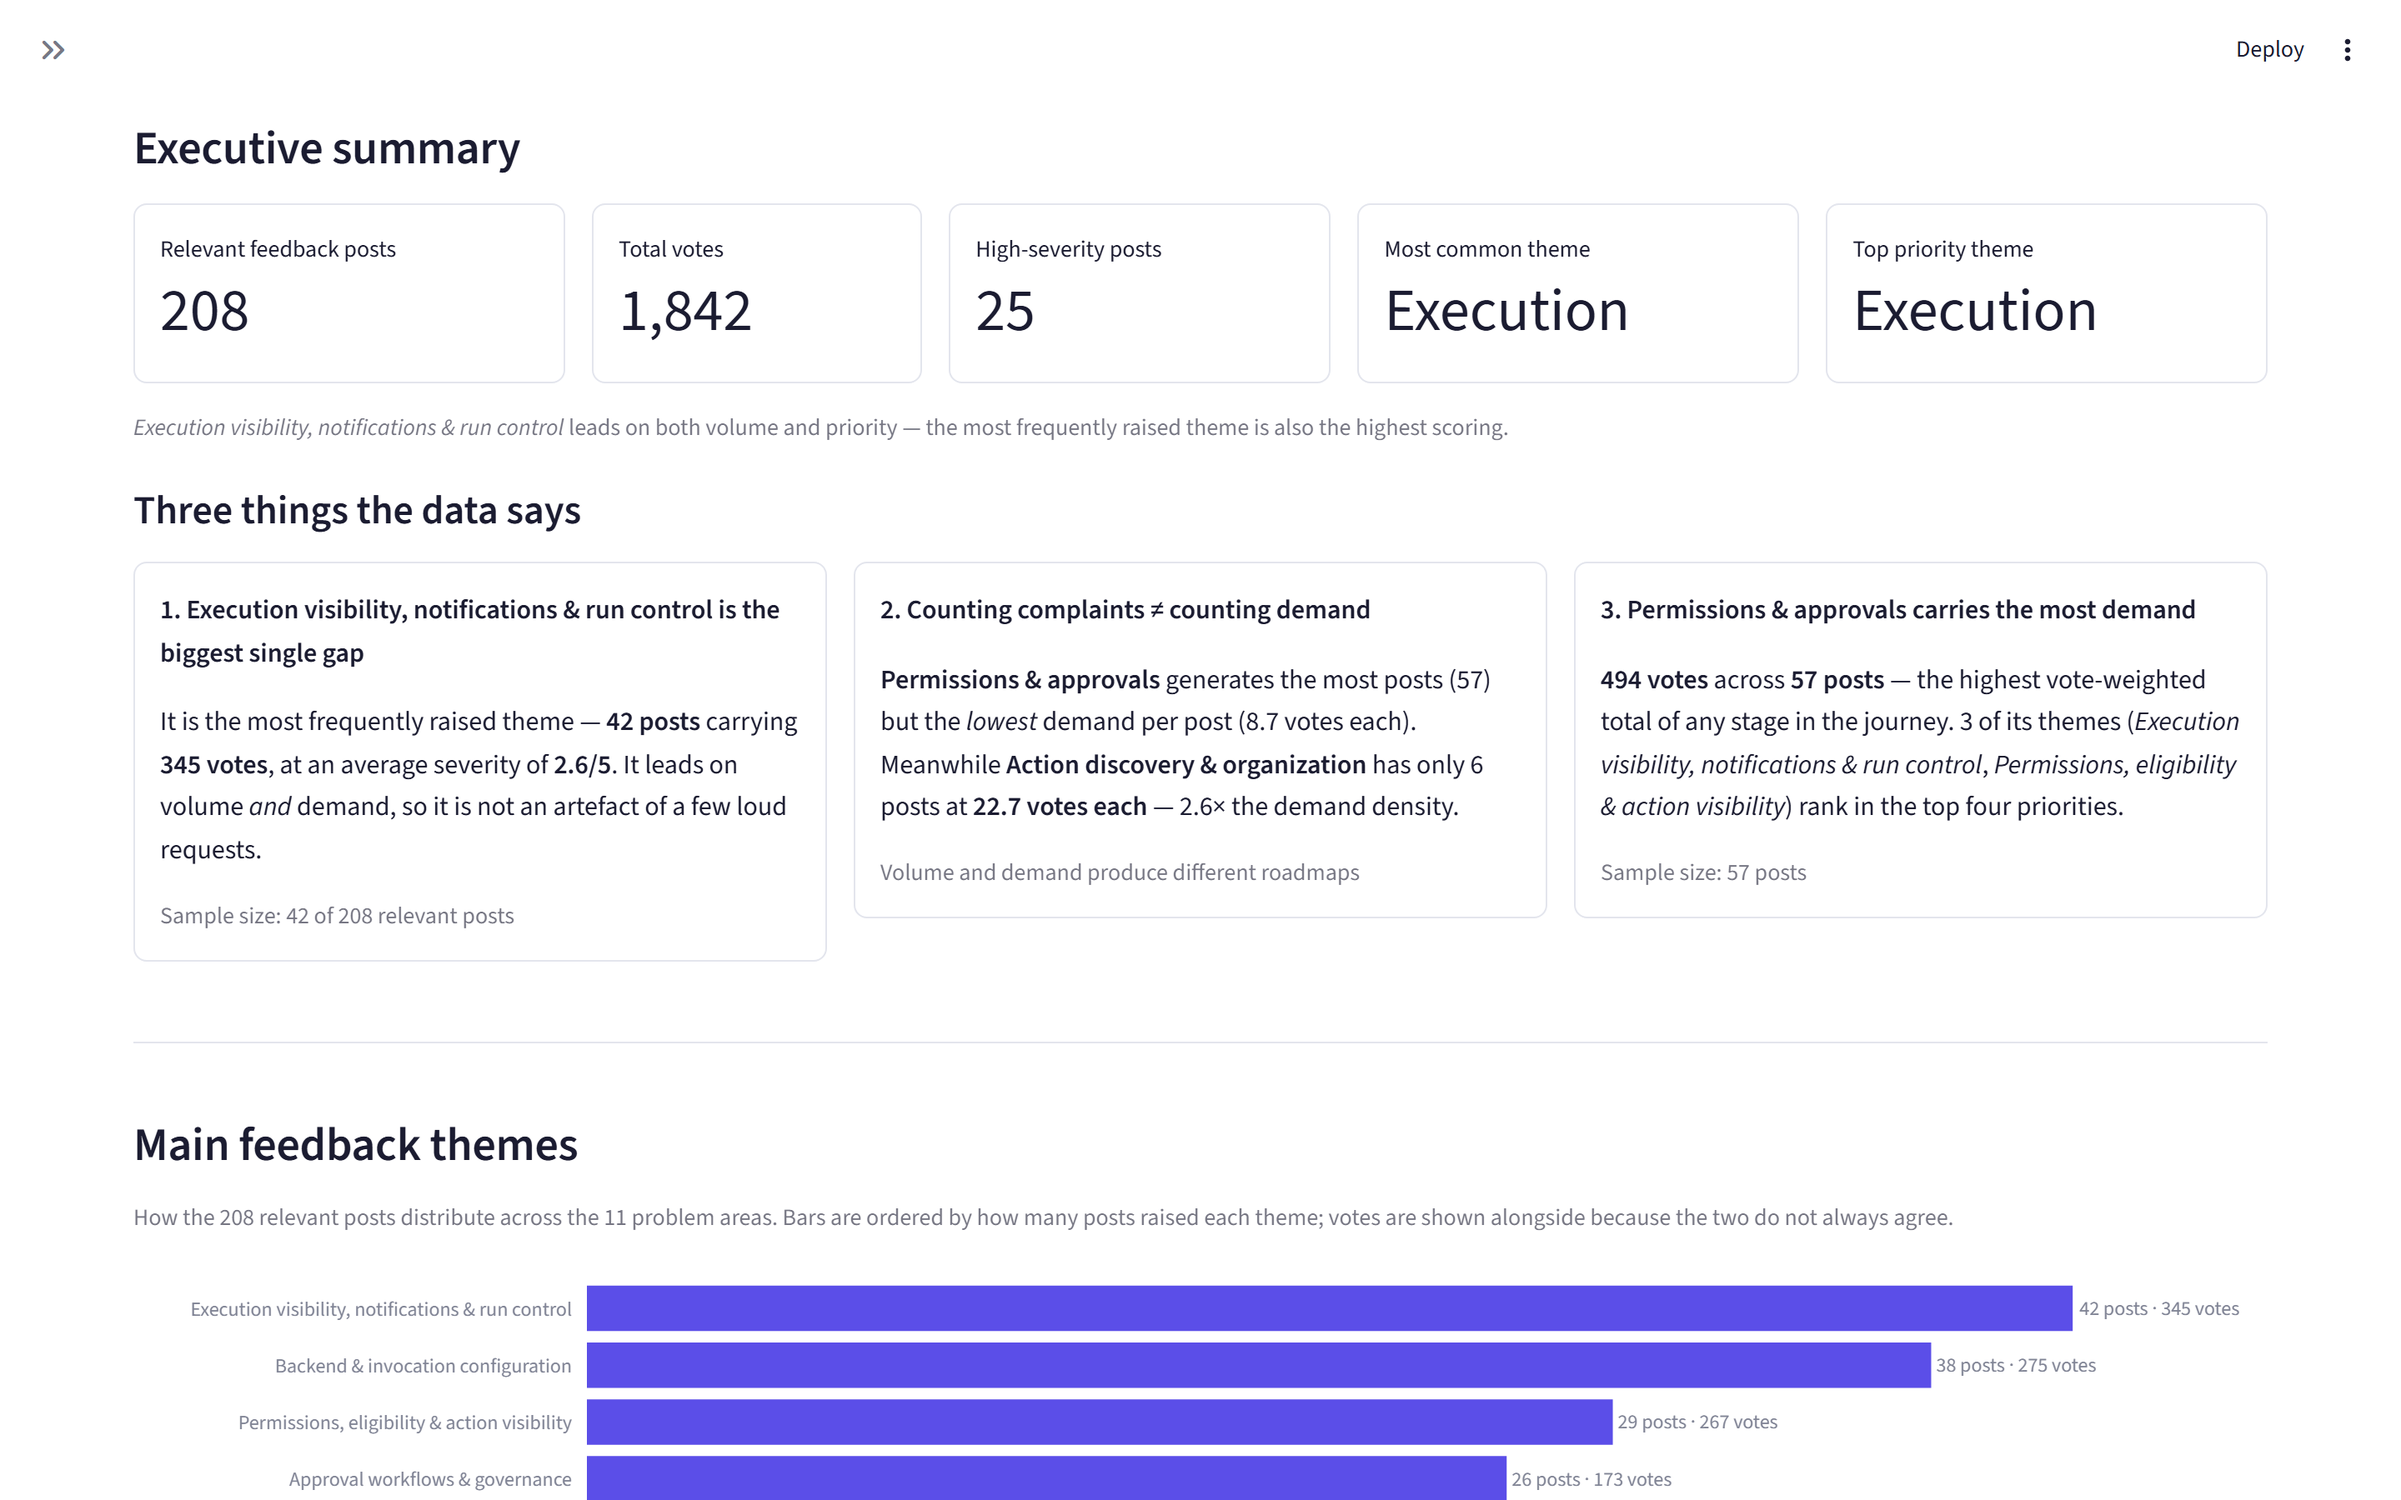
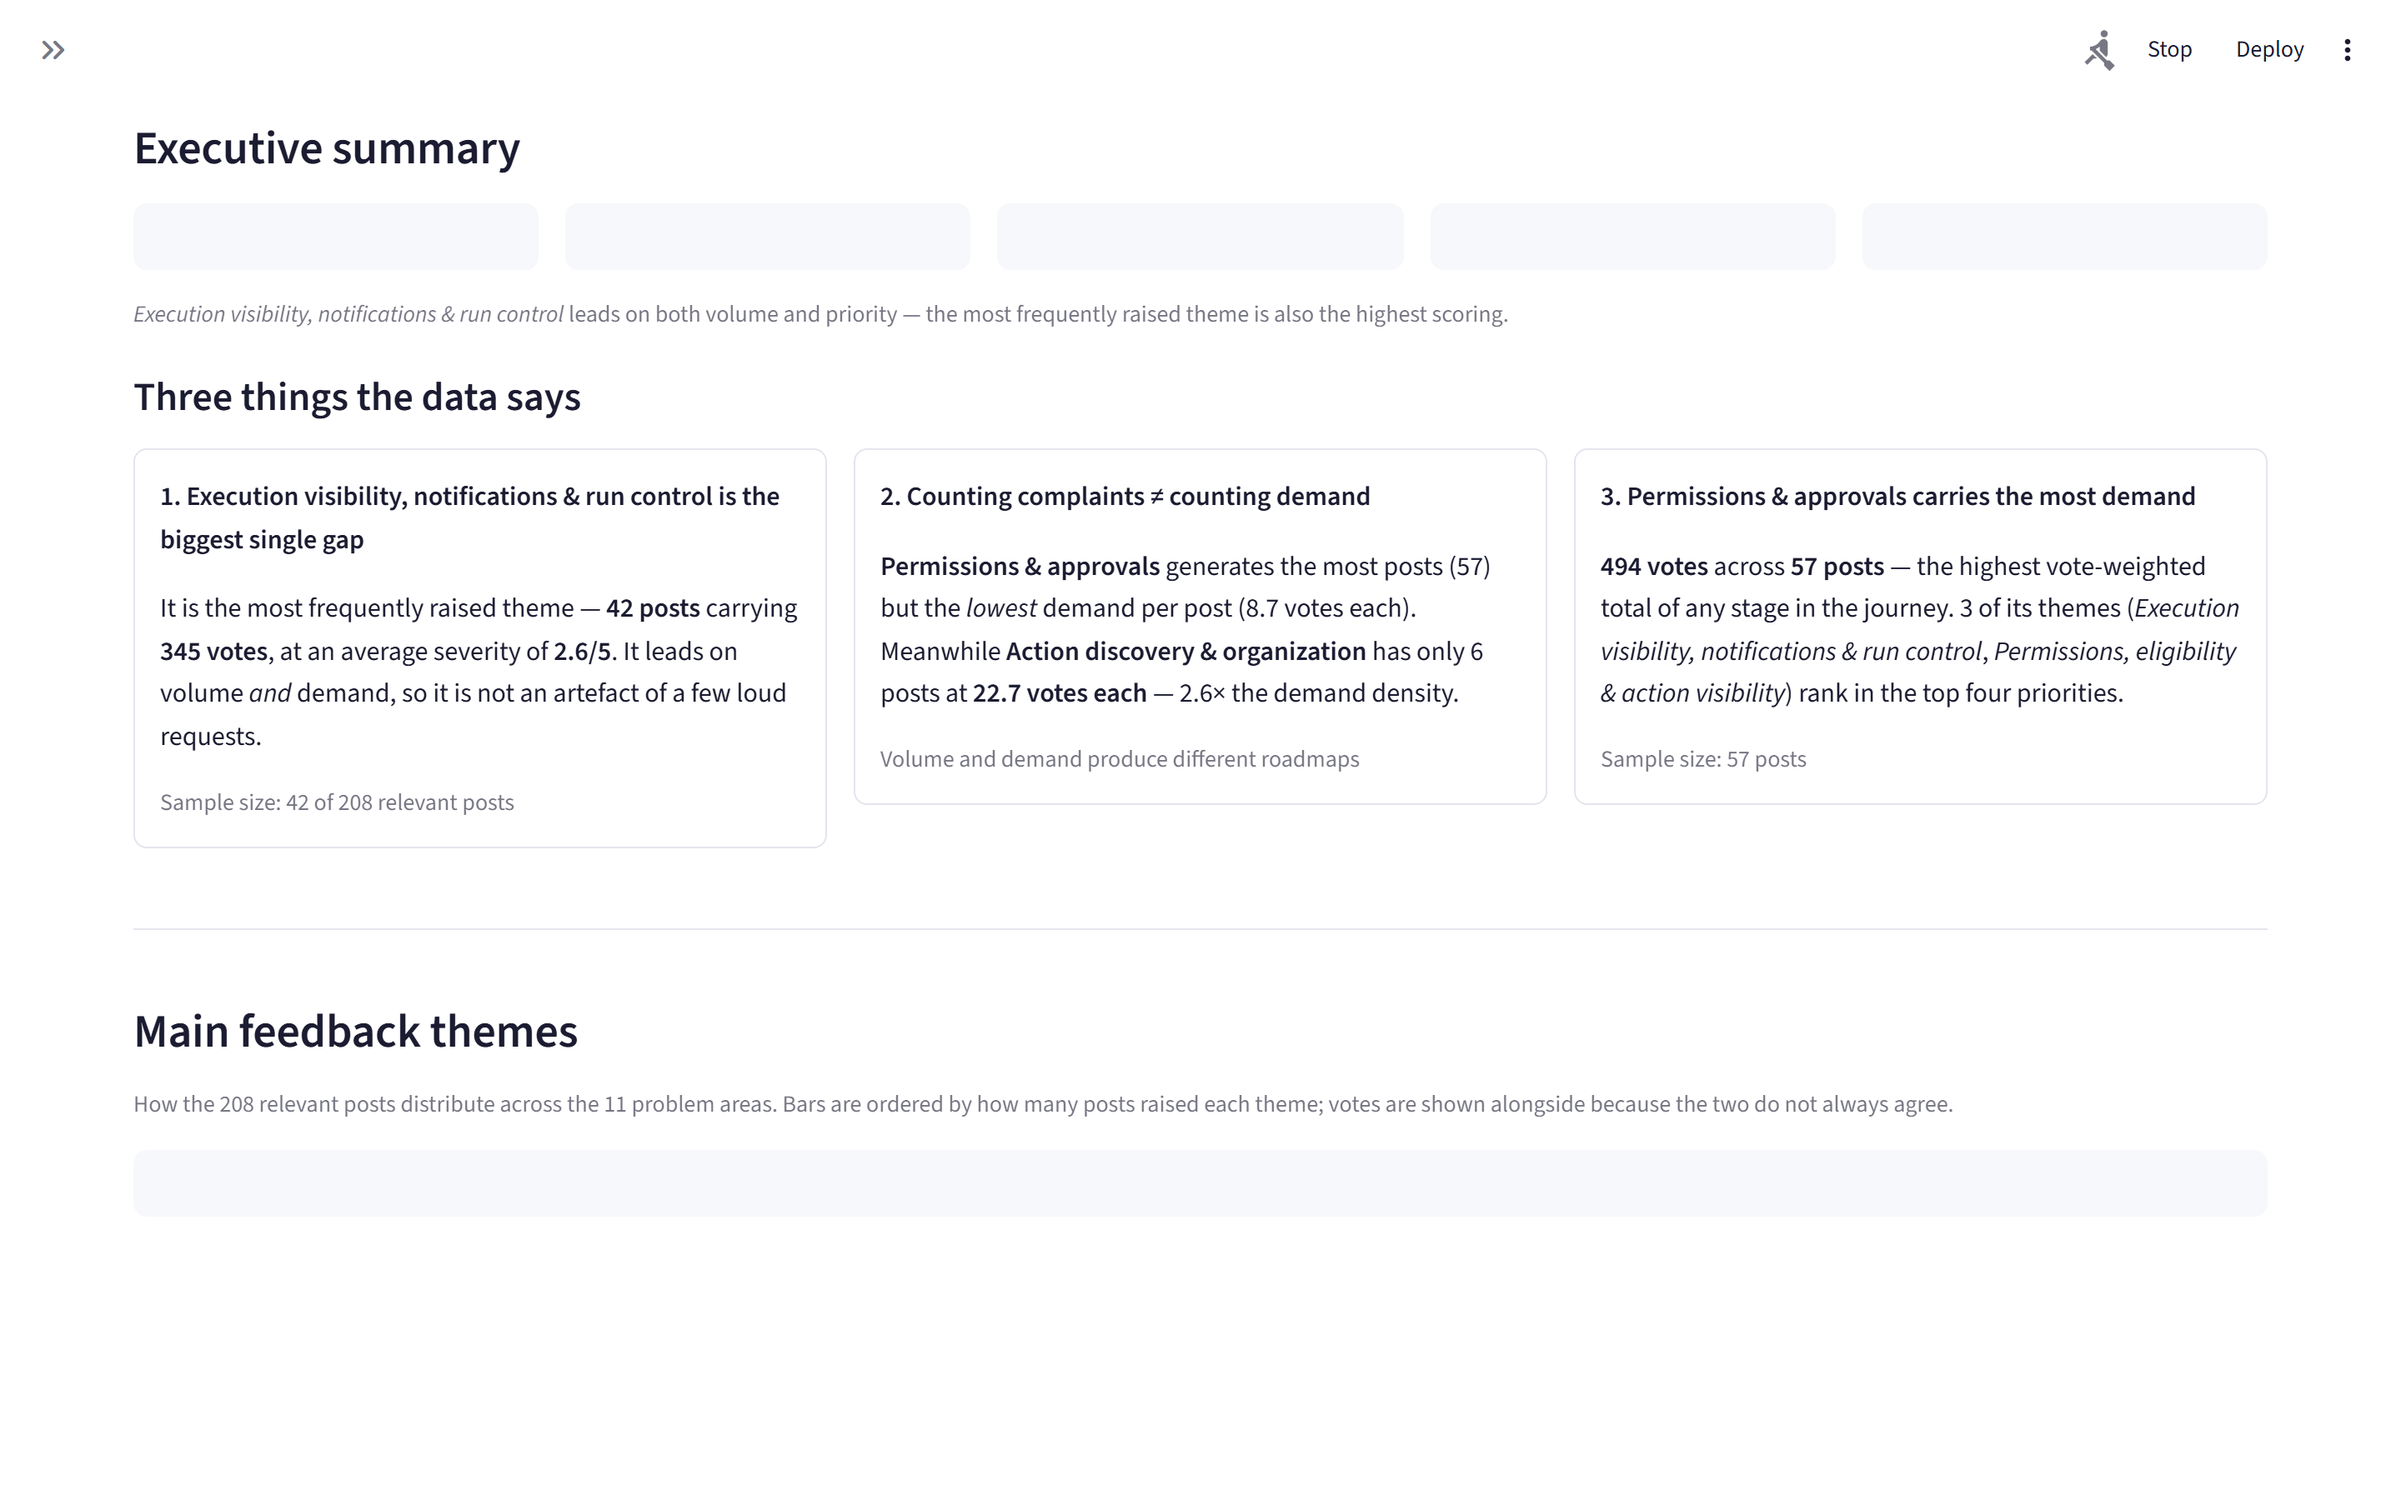
Remove the beginner glossary; explain the verified-quotes filter in the sidebar
Guide tab
- Dropped the "Beginner glossary" section. Removed the GLOSSARY dict from
  taxonomy.py as well rather than leaving unused metadata behind, and cleared
  every reference from the docs and the glossary screenshot.
- Added test_glossary_is_fully_removed so it cannot creep back in unnoticed.

Sidebar
- The "Verified quotes only" toggle now carries a short explanation: every quote
  is checked in Python against the original post word for word, N of M could not
  be matched because the model paraphrased, and their theme, stage and severity
  still count everywhere else -- only the quote is withheld. The counts are
  computed from the data, so the caption cannot go stale.

Screenshots regenerated to match.

28 tests passing.

diff --git a/src/models/taxonomy.py b/src/models/taxonomy.py
@@ -445,36 +445,6 @@ STAGE_GUIDE: dict[str, dict] = {
     },
 }
 
-GLOSSARY: dict[str, str] = {
-    "Action": "A form that lets someone request or trigger a task, such as deploying "
-              "a service or requesting access.",
-    "Entity": "An item stored in Port, such as a service, application, environment "
-              "or resource.",
-    "Pre-fill": "Automatically placing known information into a field so the user "
-                "does not have to enter it again.",
-    "Input": "A field in a form where the user enters or selects information.",
-    "Validation": "A check that confirms whether the information entered in a form "
-                  "is acceptable.",
-    "Payload": "The package of information sent from the form to the system that "
-               "performs the task.",
-    "Webhook": "A way for one system to automatically send information to another "
-               "system when something happens.",
-    "API": "A structured way for software systems to communicate with each other.",
-    "Credential": "Information used to prove that a system or user is allowed to "
-                  "connect.",
-    "Secret": "Sensitive information, such as a password or access token, that "
-              "should be stored securely.",
-    "Permission": "A rule that determines who is allowed to see or perform something.",
-    "Approval": "A decision another person must make before an action is allowed to "
-                "continue.",
-    "Execution": "The period when the requested task is actually being performed.",
-    "Run": "One specific attempt to execute an action.",
-    "Log": "A record of events and messages produced while an action is running.",
-    "Retry": "Trying to run a failed action again.",
-    "Orchestration": "Coordinating several connected tasks or systems as one process.",
-    "Draft": "A saved version of an action that is not yet ready or published.",
-}
-
 # Commonly confused pairs, rendered side by side in the guide.
 CONFUSION_PAIRS: list[dict[str, str]] = [
     {"left": "Action discovery & organization", "right": "Permissions, eligibility & action visibility",

diff --git a/app.py b/app.py
@@ -30,13 +30,11 @@ from src.models.taxonomy import (
     CONFUSION_PAIRS,
     DEFAULT_STAGE_FOR_THEME,
     FEEDBACK_TYPES,
-    GLOSSARY,
     SEVERITY_SCALE,
     STAGE_GUIDE,
     STAGE_NAMES,
     THEME_GUIDE,
     THEME_NAMES,
-    THEMES,
     WORKED_EXAMPLES,
 )
 
@@ -324,6 +322,15 @@ def render_dashboard() -> None:
         f_status = st.multiselect("Status", sorted(rel["status"].dropna().unique()))
         f_sev = st.slider("Minimum severity", 1, 5, 1)
         verified_only = st.toggle("Verified quotes only", value=True)
+        # Count computed, not hardcoded, so this caption cannot go stale.
+        n_unverified = int((~rel["evidence_verified"]).sum())
+        st.caption(
+            f"Every quote is checked in Python against the original post, "
+            f"word for word. **{n_unverified} of {len(rel)}** could not be matched "
+            f"— the model paraphrased instead of copying. Leave this on to hide "
+            f"them. Their theme, stage and severity still count everywhere else; "
+            f"only the quote is withheld."
+        )
 
         st.divider()
         st.caption(
@@ -667,20 +674,6 @@ def render_guide() -> None:
             )
             for k in sorted(SEVERITY_SCALE, reverse=True):
                 st.markdown(f"**{k}** — {SEVERITY_SCALE[k]}")
-
-    st.divider()
-
-    # --------------------------------------------------------- F. Glossary
-    st.header("Beginner glossary")
-    st.caption("Every technical term used anywhere in this app, in one or two sentences.")
-
-    terms = list(GLOSSARY.items())
-    half = (len(terms) + 1) // 2
-    g1, g2 = st.columns(2)
-    for col, chunk in ((g1, terms[:half]), (g2, terms[half:])):
-        with col:
-            for term, definition in chunk:
-                st.markdown(f"**{term}** — {definition}")
 
 
 # ==========================================================================

diff --git a/tests/test_pipeline.py b/tests/test_pipeline.py
@@ -256,7 +256,7 @@ def test_default_stage_mapping_is_complete_and_valid():
 def test_guide_metadata_is_complete():
     """The guide tab renders straight from this metadata, so gaps become blanks."""
     from src.models.taxonomy import (
-        GLOSSARY, STAGE_GUIDE, STAGE_NAMES, THEME_GUIDE, THEME_NAMES,
+        STAGE_GUIDE, STAGE_NAMES, THEME_GUIDE, THEME_NAMES,
     )
 
     for theme in THEME_NAMES:
@@ -272,9 +272,15 @@ def test_guide_metadata_is_complete():
         for field in ("plain", "user_goal", "example"):
             assert field in g and g[field], f"{stage} guide missing {field}"
 
-    assert len(GLOSSARY) >= 18
-    for term, definition in GLOSSARY.items():
-        assert definition.strip(), f"empty glossary definition for {term}"
+
+def test_glossary_is_fully_removed():
+    """The glossary section was dropped from the guide -- leave no dead metadata."""
+    from src.models import taxonomy
+
+    assert not hasattr(taxonomy, "GLOSSARY"), "GLOSSARY should have been removed"
+    app_source = (ROOT / "app.py").read_text(encoding="utf-8")
+    assert "GLOSSARY" not in app_source
+    assert "Beginner glossary" not in app_source
 
 
 def test_guide_supporting_content_present():
@@ -321,7 +327,7 @@ def test_guide_renders_without_api_key():
         "import os, sys;"
         "assert 'ANTHROPIC_API_KEY' not in os.environ;"
         f"sys.path.insert(0, r'{ROOT}');"
-        "from src.models.taxonomy import THEME_GUIDE, STAGE_GUIDE, GLOSSARY, "
+        "from src.models.taxonomy import THEME_GUIDE, STAGE_GUIDE, "
         "CONFUSION_PAIRS, WORKED_EXAMPLES, DEFAULT_STAGE_FOR_THEME;"
         "assert len(THEME_GUIDE) == 11 and len(STAGE_GUIDE) == 8;"
         "print('GUIDE OK')"

diff --git a/TAXONOMY.md b/TAXONOMY.md
@@ -153,4 +153,4 @@ The model cannot attribute a complaint to a customer who never made it, because 
 
 ## In-app guide
 
-The dashboard's second tab, **Themes & Journey Stages Guide**, renders this taxonomy for readers with no software or DevOps background: plain-language explanations, use-when and do-not-use-when criteria, two examples per theme, a numbered stage timeline, worked classification examples, side-by-side confusion pairs, and an 18-term glossary. It reads from the same `taxonomy.py` metadata (`THEME_GUIDE`, `STAGE_GUIDE`, `GLOSSARY`, `CONFUSION_PAIRS`, `WORKED_EXAMPLES`), so the guide can never describe a taxonomy the classifier isn't using.
+The dashboard's second tab, **Themes & Journey Stages Guide**, renders this taxonomy for readers with no software or DevOps background: plain-language explanations, use-when and do-not-use-when criteria, two examples per theme, a numbered stage timeline, worked classification examples, and side-by-side confusion pairs. It reads from the same `taxonomy.py` metadata (`THEME_GUIDE`, `STAGE_GUIDE`, `CONFUSION_PAIRS`, `WORKED_EXAMPLES`), so the guide can never describe a taxonomy the classifier isn't using.

diff --git a/ARCHITECTURE.md b/ARCHITECTURE.md
@@ -105,7 +105,7 @@ app.py                  Streamlit app -- Dashboard tab (5 sections) + Guide tab
 src/
   collectors/           portal fetch + parse
   models/               Pydantic schema + taxonomy (single source of truth for
-                        themes, stages, guide metadata and glossary)
+                        themes, stages and guide metadata)
   analysis/             clean, dedupe, classify, aggregate, score, evaluate
 data/
   raw/                  immutable snapshots — write once

diff --git a/README.md b/README.md
@@ -100,10 +100,6 @@ Two tabs. **Dashboard** — the analysis, five sections, understandable in about
 
 *Four worked classification examples, plus the side-by-side pairs that are most commonly confused.*
 
-![Glossary](docs/screenshots/10-guide-glossary.png)
-
-*Every technical term used anywhere in the app, defined in one or two sentences.*
-
 ---
 
 ## Architecture
